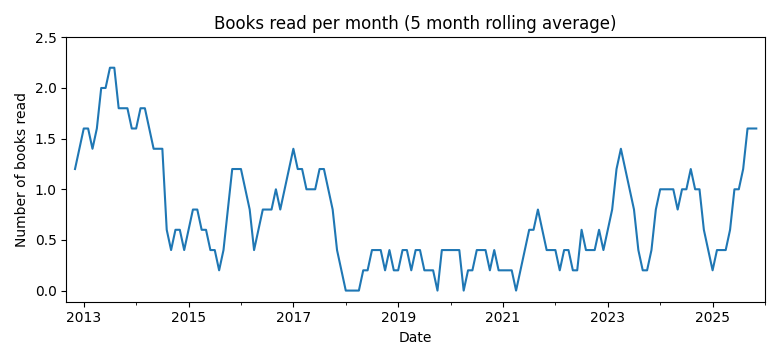
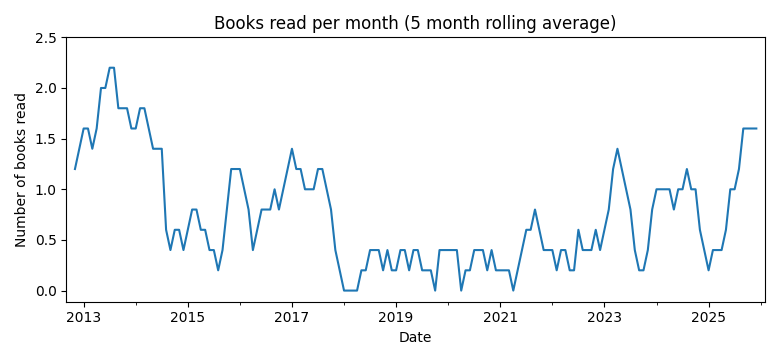
Horus 14

diff --git a/README.md b/README.md
@@ -3,29 +3,32 @@
 I started this log on October 30th, 2012. I list all books I read.  
 
 ### Statistics
-Total number of books read: 122  
-Books per month: 0.76 (2012/9 to 2026/1)
+Total number of books read: 123  
+Books per month: 0.76 (2012/9 to 2026/2)
 
 ![Books recorded by year](book_recorded.png)
 ![Books read per month](book_read.png)
 
 ### List of books
-*Fulgrim (Horus Heresy)*, Graham McNeill  
+*The First Heretic (Horus Heresy 14)*, Aaron Dembski-Bowden  
+Finished: 2026.02.09
+
+*Fulgrim (Horus Heresy 5)*, Graham McNeill  
 Finished: 2026.01.26
 
-*The flight of the Eisenstein (Horus Heresy)*, James Swallow  
+*The flight of the Eisenstein (Horus Heresy 4)*, James Swallow  
 Finished: 2026.01.07
 
-*Galaxy in Flames (Horus Heresy)*, Ben Counter  
+*Galaxy in Flames (Horus Heresy 3)*, Ben Counter  
 Finished: 2025.12.30
 
-*False Gods (Horus Heresy)*, Graham McNeill  
+*False Gods (Horus Heresy 2)*, Graham McNeill  
 Finished: 2025.11.28
 
 *Breath*, James Nestor  
 Finished: 2025.11.17
 
-*Horus rising (Horus Heresy)*, Dan Abnett  
+*Horus rising (Horus Heresy 1)*, Dan Abnett  
 Finished: 2025.10.30
 
 *Turn the ship around!*, L. David Marquet  
